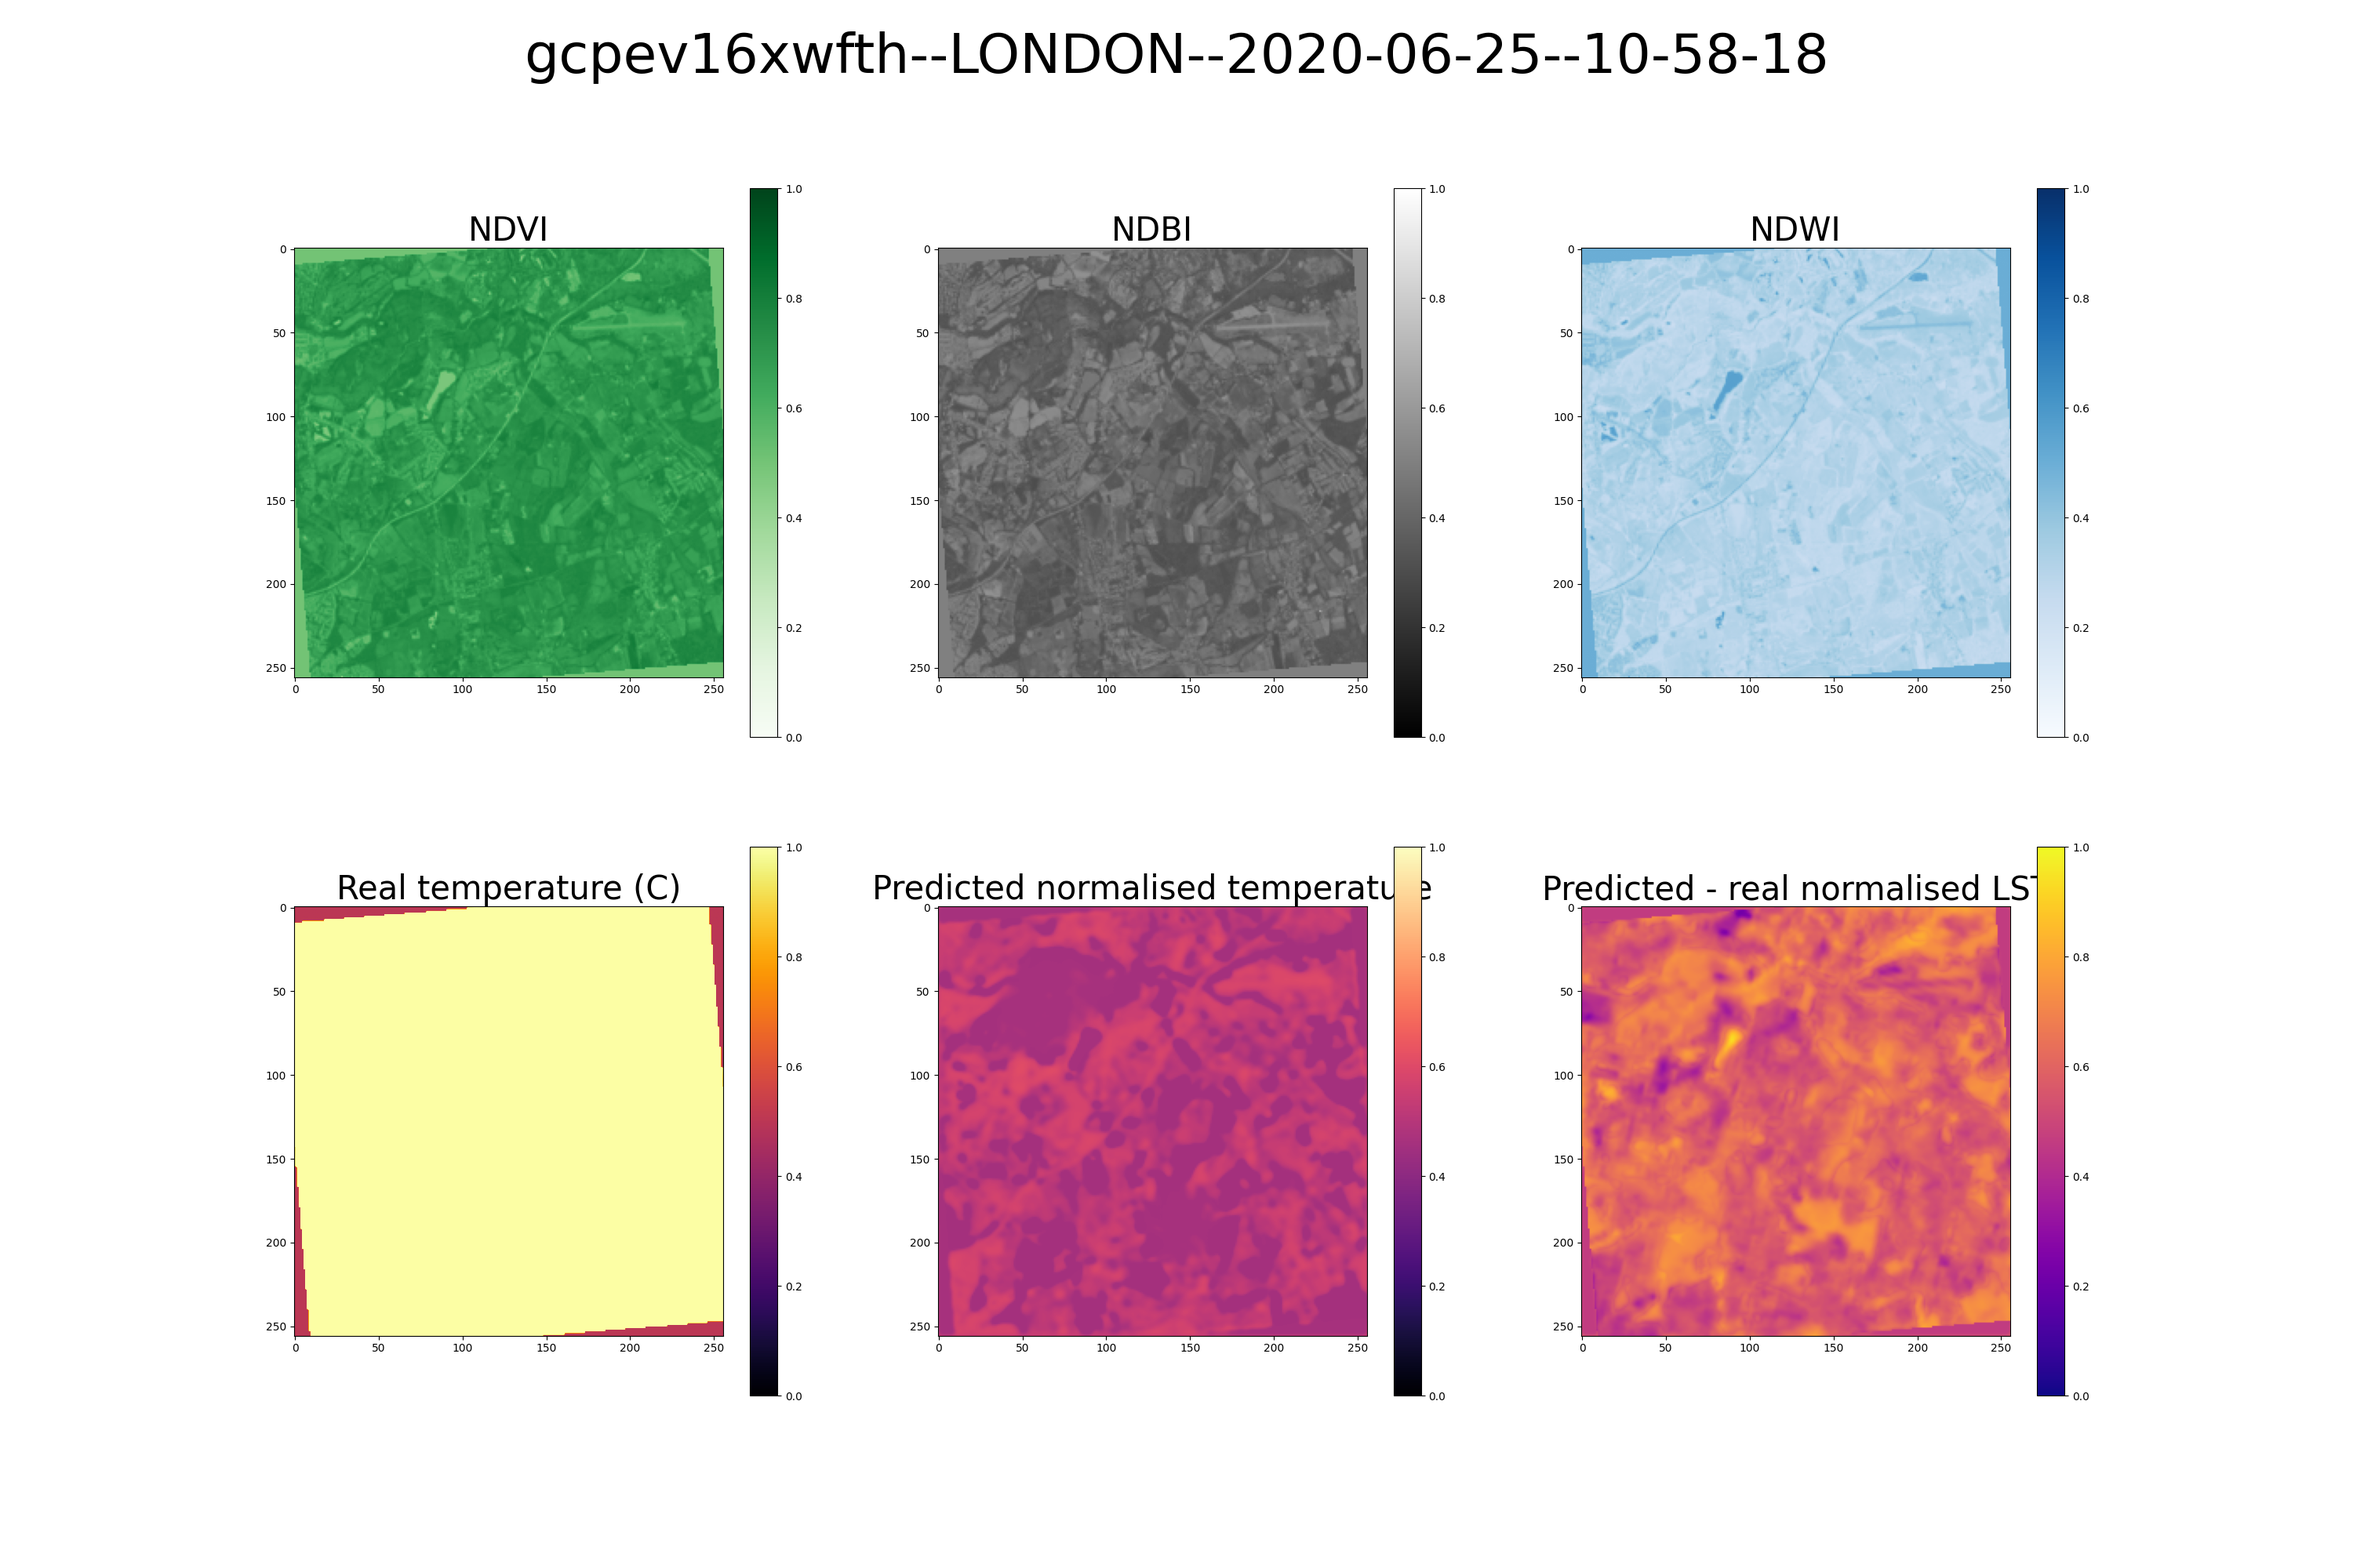
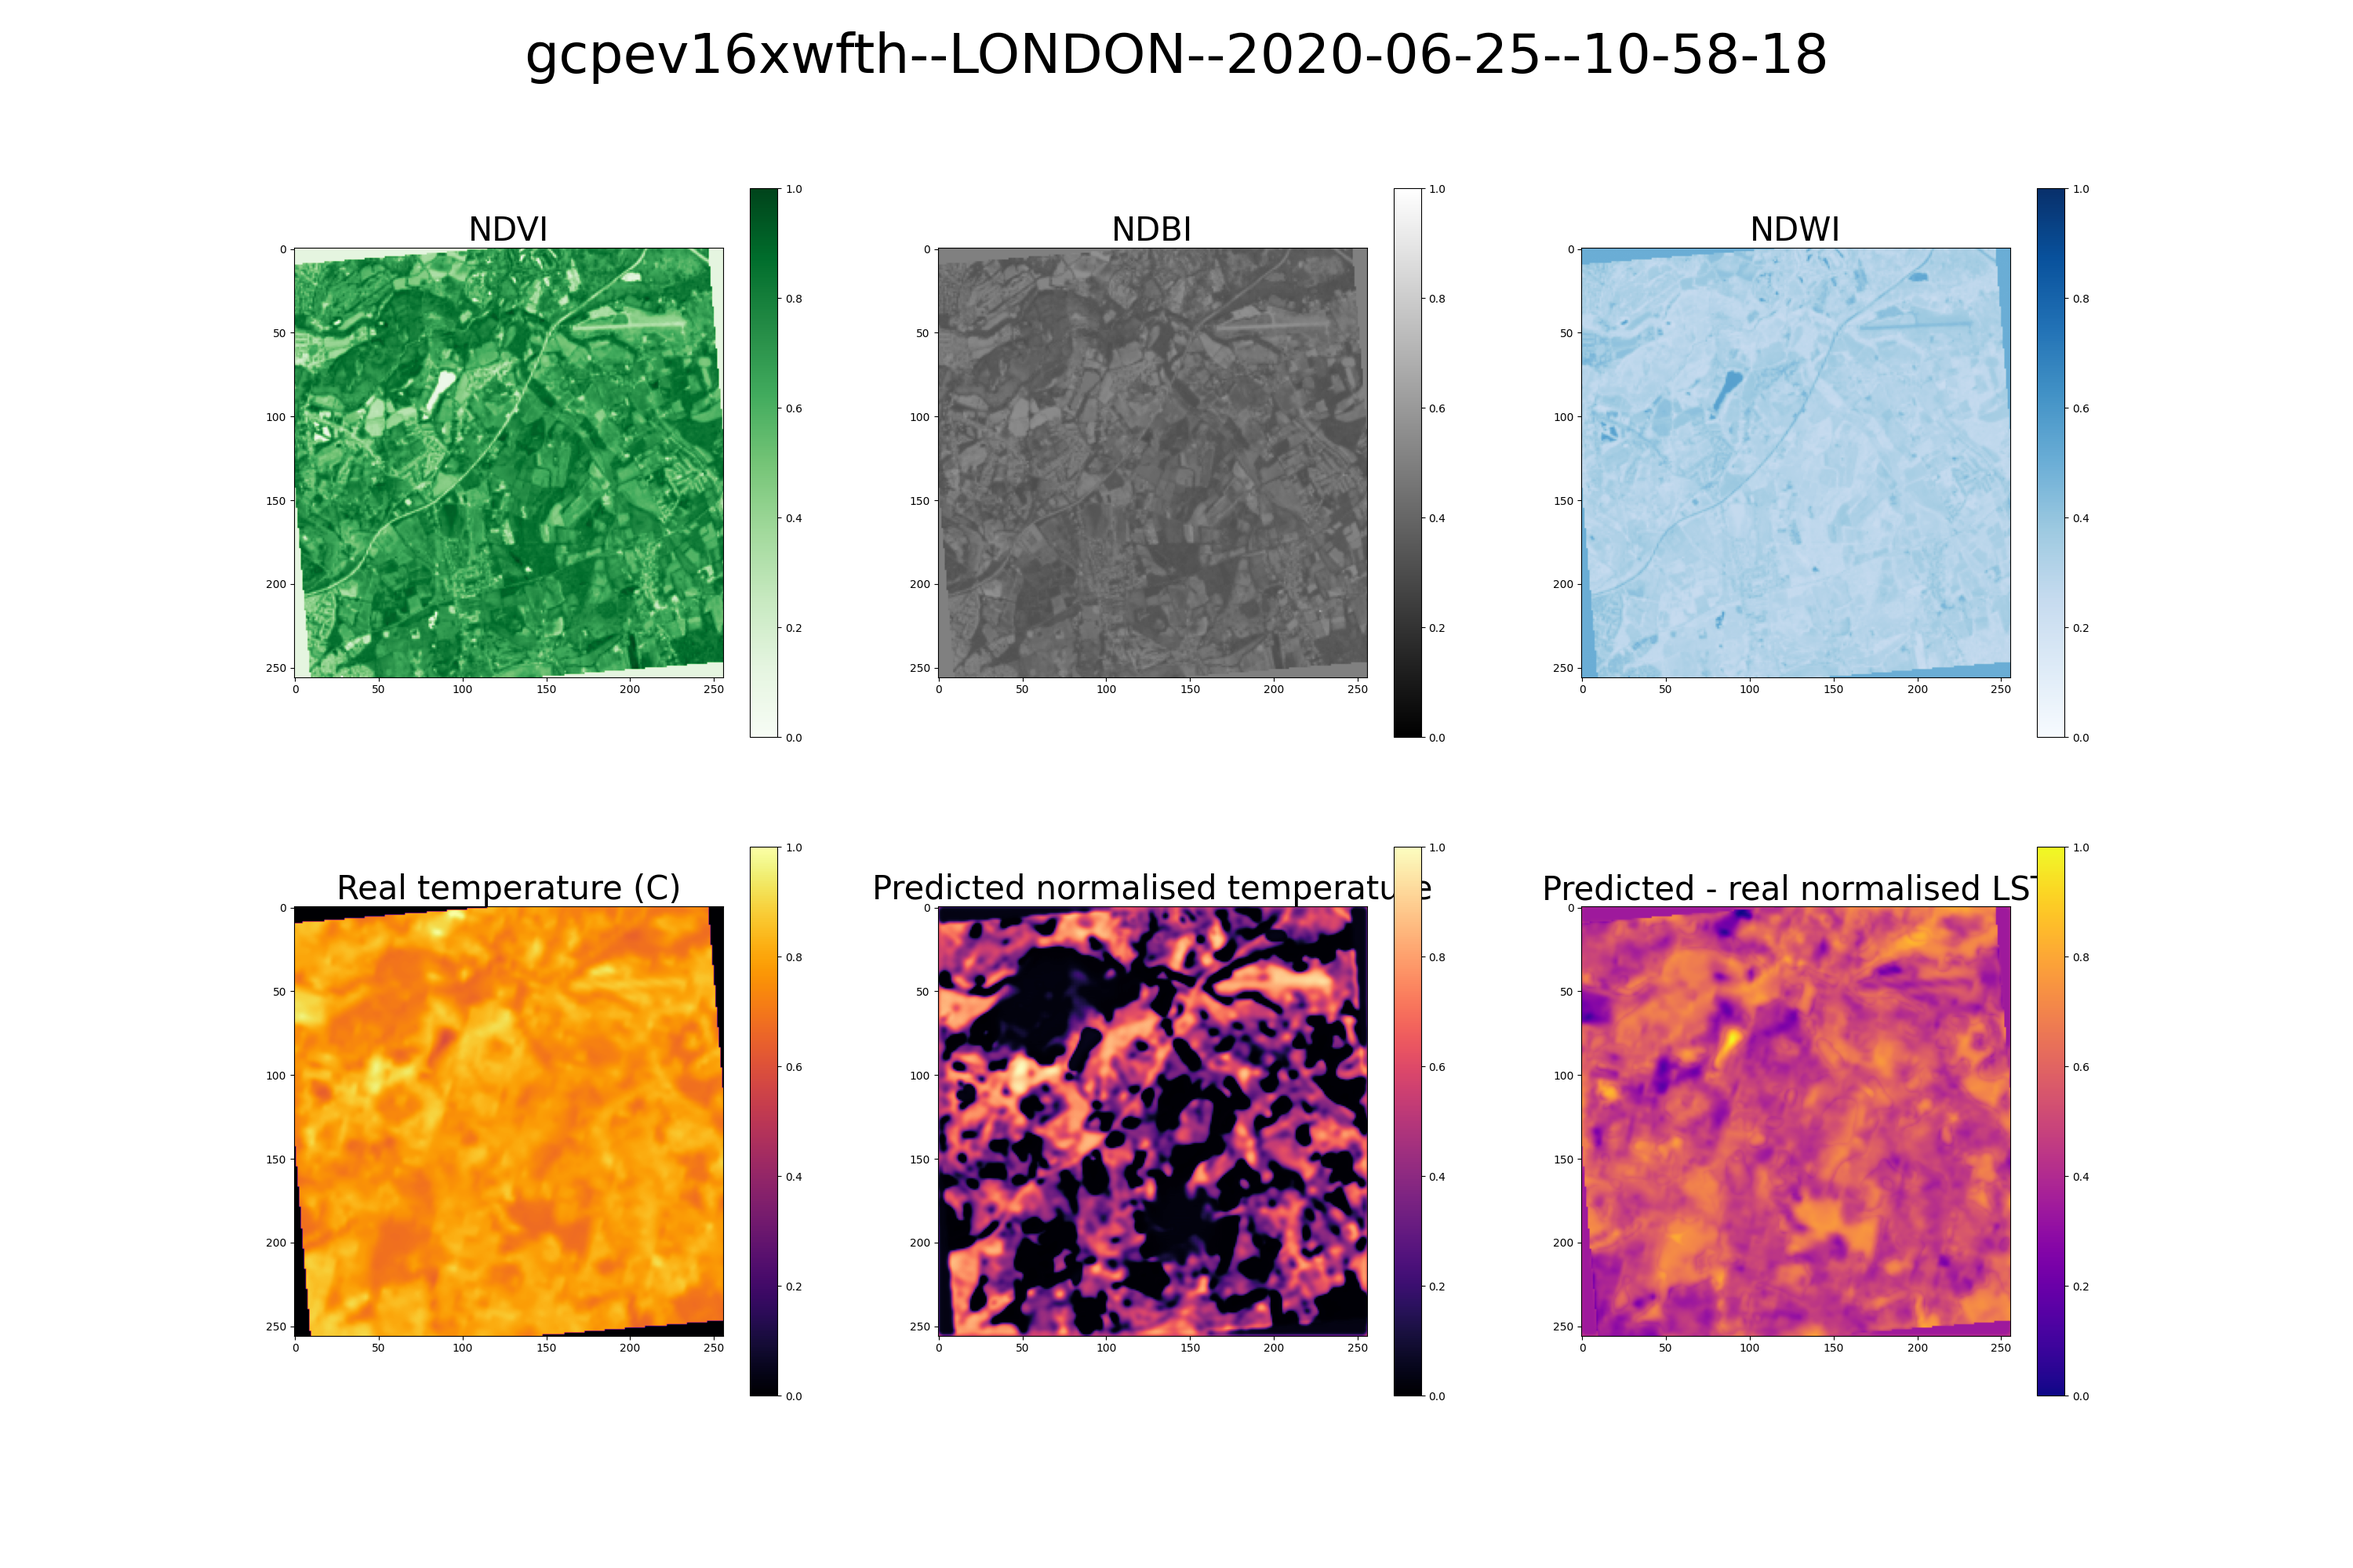
norm results

diff --git a/test_cGAN.py b/test_cGAN.py
@@ -1,5 +1,6 @@
 from cGAN import *
 from matplotlib import cm
+import matplotlib as mpl
 from train_cGAN import Config
 from pipelines.utils import *
 import torch
@@ -39,28 +40,29 @@ for image_id in tqdm(image_ids):
     fig, axs = plt.subplots(2, 3, figsize = (30, 20))
     fig.suptitle(image_name, fontsize=50)
 
-    axs[0,0].imshow(imV, cmap='Greens', vmin=-1.0, vmax=1.0)
+    axs[0,0].imshow(imV, cmap='Greens')
     axs[0,0].set_title("NDVI", fontsize = 30)
-    fig.colorbar(cm.ScalarMappable(cmap='Greens'), ax=axs[0,0])
+    fig.colorbar(cm.ScalarMappable(cmap='Greens'), ax=axs[0,0], norm=mpl.colors.Normalize(vmin=-1.0, vmax=1.0))
 
-    axs[0,1].imshow(imB, cmap='gray', vmin=-1.0, vmax=1.0)  
+    axs[0,1].imshow(imB, cmap='gray', vmin=-1.0, vmax=1.0)
     axs[0,1].set_title("NDBI", fontsize = 30)
-    fig.colorbar(cm.ScalarMappable(cmap='gray'), ax=axs[0,1])
+    fig.colorbar(cm.ScalarMappable(cmap='gray'), ax=axs[0,1], norm=mpl.colors.Normalize(vmin=-1.0, vmax=1.0))
 
     axs[0,2].imshow(imW, cmap='Blues', vmin=-1.0, vmax=1.0)
     axs[0,2].set_title("NDWI", fontsize = 30)
-    fig.colorbar(cm.ScalarMappable(cmap='Blues'), ax=axs[0,2])
+    fig.colorbar(cm.ScalarMappable(cmap='Blues'), ax=axs[0,2], norm=mpl.colors.Normalize(vmin=-1.0, vmax=1.0))
 
-    axs[1,0].imshow(LST_real, cmap='inferno', vmin=-3.0, vmax=3.0)
+    axs[1,0].imshow(LST_real, cmap='inferno')
     axs[1,0].set_title("Real temperature (C)", fontsize = 30)
-    fig.colorbar(cm.ScalarMappable(cmap='inferno'), ax=axs[1,0])
+    fig.colorbar(cm.ScalarMappable(cmap='inferno'), ax=axs[1,0], norm=mpl.colors.Normalize(vmin=np.amin(LST_real), vmax=np.amax(LST_real)))
 
-    axs[1,1].imshow(LSTN_pred, cmap='magma', vmin=-3.0, vmax=3.0)  
+    axs[1,1].imshow(LSTN_pred, cmap='magma')  
     axs[1,1].set_title("Predicted normalised temperature", fontsize = 30)
-    fig.colorbar(cm.ScalarMappable(cmap='magma'), ax=axs[1,1])
+    fig.colorbar(cm.ScalarMappable(cmap='magma'), ax=axs[1,1], norm=mpl.colors.Normalize(vmin=np.amin(LSTN_pred), vmax=np.amax(LSTN_pred)))
 
-    axs[1,2].imshow(LSTN_pred-LSTN_real, cmap='plasma', vmin=-3.0, vmax=3.0) 
+    diff = LSTN_pred-LSTN_real
+    axs[1,2].imshow(diff, cmap='plasma')
     axs[1,2].set_title("Predicted - real normalised LST", fontsize = 30)
-    fig.colorbar(cm.ScalarMappable(cmap='plasma'), ax=axs[1,2])
+    fig.colorbar(cm.ScalarMappable(cmap='plasma'), ax=axs[1,2], norm=mpl.colors.Normalize(vmin=np.amin(diff), vmax=np.amax(diff)))
 
     fig.savefig(f"results/LONDON_ONLY/{image_name}.RESULTS.png")
